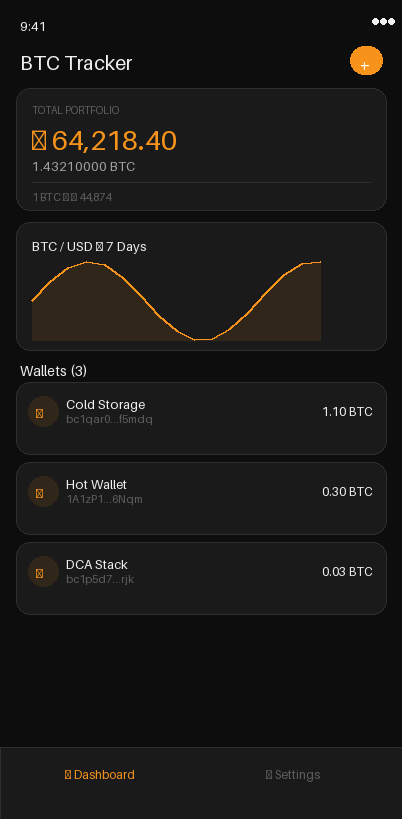
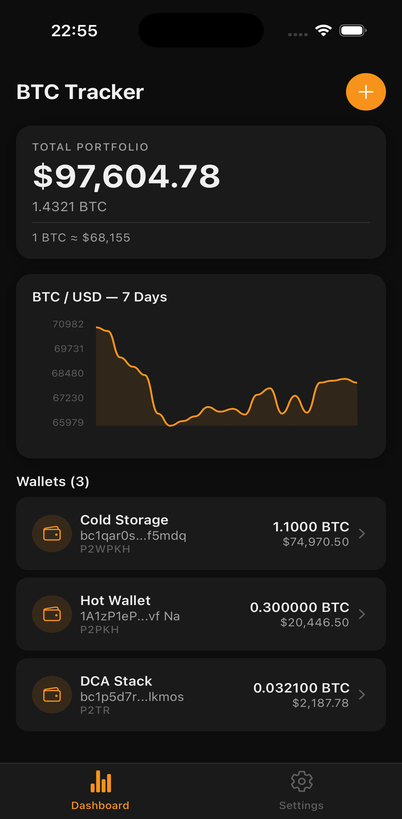
feat: real simulator screenshots, remove open source refs, fix robots.txt
- Replace PIL placeholder screenshots with actual iPhone 17 Pro simulator captures:
  01-dashboard.png: populated dashboard ($97,604 portfolio, 3 wallets, live chart)
  04-settings.png: settings screen with all options
  05-dark-mode.png: dark mode dashboard
- Remove '🔓 OPEN SOURCE' ticker item from Hero (replaced with '📲 iOS + ANDROID')
- Fix robots.txt sitemap URL to xavierbasc.github.io

diff --git a/src/components/sections/Hero.tsx b/src/components/sections/Hero.tsx
@@ -7,7 +7,7 @@ const TICKER_ITEMS = [
   '💱 6 CURRENCIES',
   '🌙 DARK MODE',
   '✅ GDPR SAFE',
-  '🔓 OPEN SOURCE',
+  '📲 iOS + ANDROID',
   '⚡ NO ACCOUNT',
 ];
 
